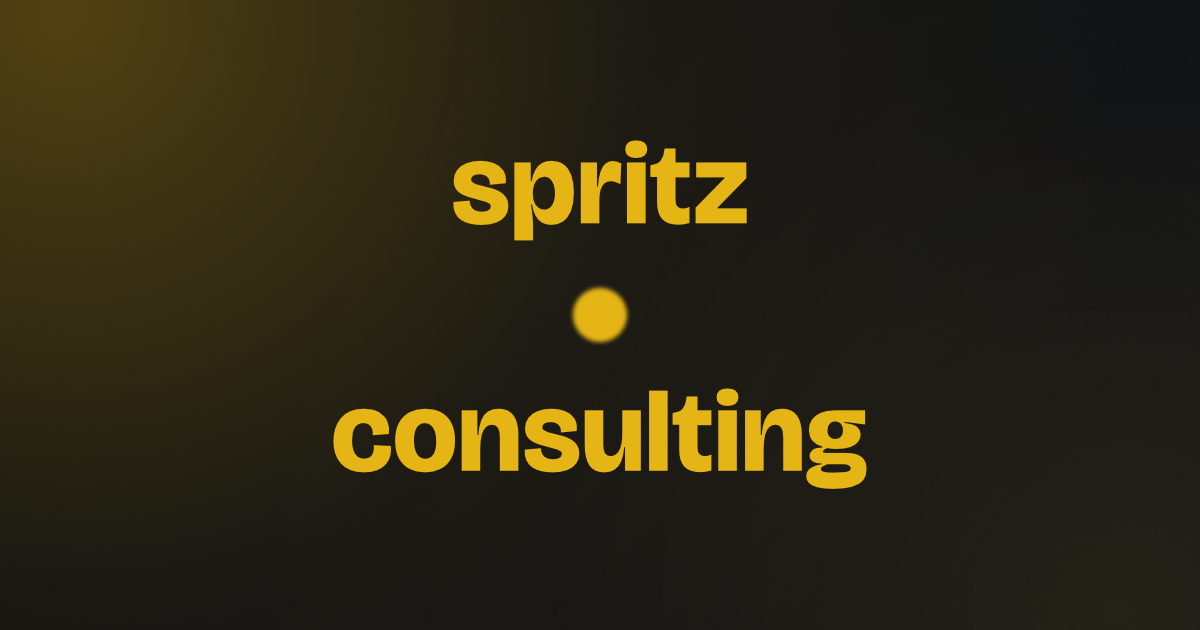
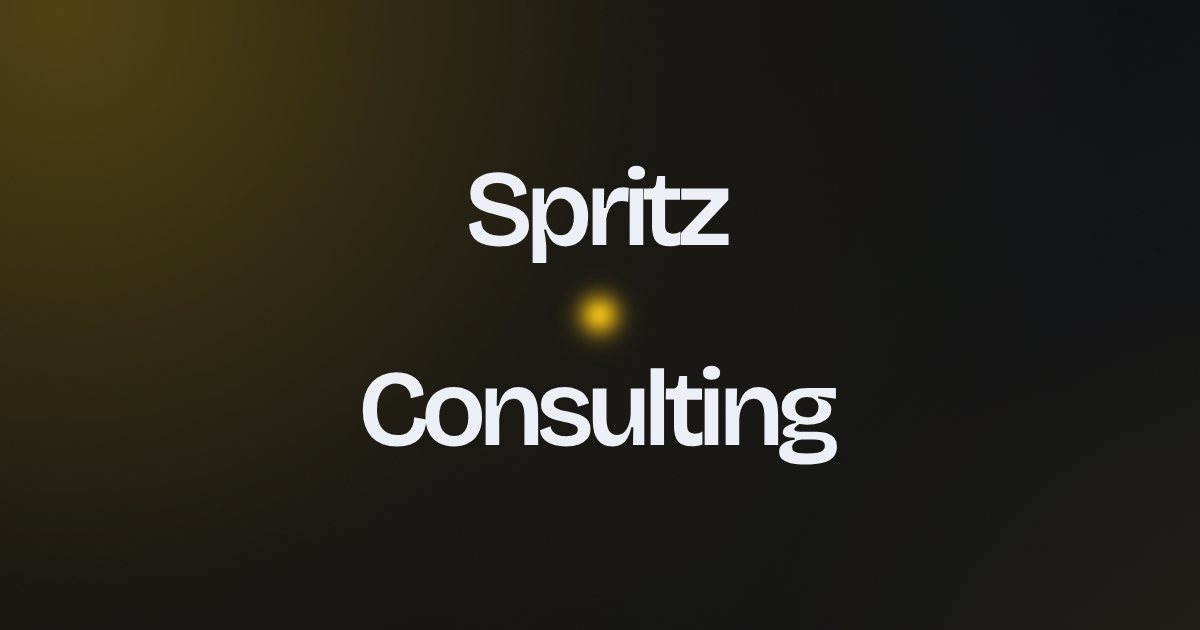
og:image: update main site social image

Changed region(s): [[0.2775, 0.573, 0.74, 0.7841], [0.37, 0.2111, 0.6475, 0.4222], [0.4625, 0.4524, 0.5242, 0.5429]]

diff --git a/index.html b/index.html
@@ -25,14 +25,14 @@
 <meta property="og:url" content="https://spritzconsulting.com/" />
 <meta property="og:site_name" content="Spritz Consulting" />
 <meta property="og:locale" content="en_US" />
-<meta property="og:image" content="https://spritzconsulting.com/assets/og-image.png?v=2" />
+<meta property="og:image" content="https://spritzconsulting.com/assets/og-image.png?v=3" />
 <meta property="og:image:width" content="1200" />
 <meta property="og:image:height" content="630" />
 
 <meta name="twitter:card" content="summary_large_image" />
 <meta name="twitter:title" content="Spritz Consulting | Production & Publishing Consultancy" />
 <meta name="twitter:description" content="Independent games industry consultancy: production, publishing, game design. For indie studios and publishers that need a sharper operator on the team." />
-<meta name="twitter:image" content="https://spritzconsulting.com/assets/og-image.png?v=2" />
+<meta name="twitter:image" content="https://spritzconsulting.com/assets/og-image.png?v=3" />
 
 <link rel="preload" as="image" href="/assets/miki-portrait.webp" type="image/webp" fetchpriority="high" />
 